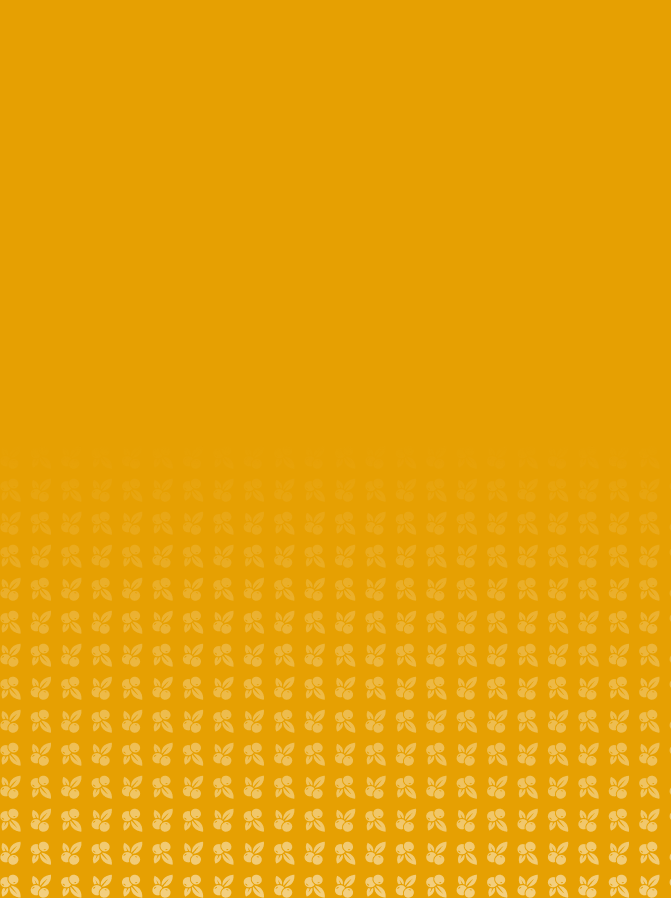
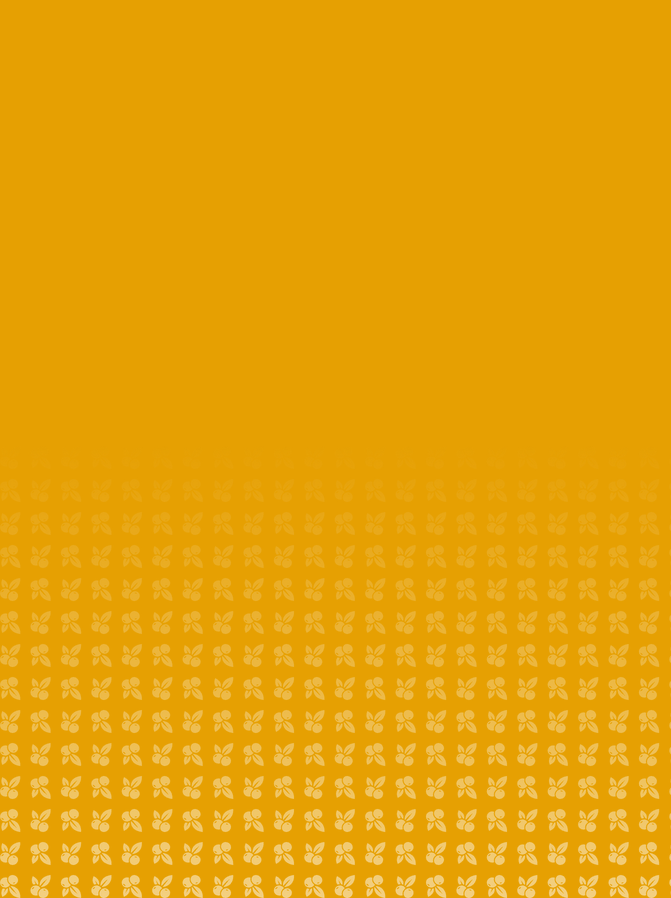
Rebuild the product panels from the Figma redesign (4183:1514)
The carousel now matches the "Products" frame in Figma rather than the old
generic bowls.

Product images: each panel shows its own branded Buenoacai cup photo
(Buenoacai 1–5), pulled from Figma at 1683×2103 and re-canvassed to a shared
950×1450 box — trimmed to the cup, scaled to a common height, centred — so
all five sit identically in one CSS box. They replace bowl-slide.png /
bowl-slide-2.png, which were reused across slides and are now deleted.

Backgrounds: Figma's earthy palette replaces the old vivid one —
gold #e6a002, brown #8c5737, olive #99a75a, brown #8c5737, beige #d0c1b0 —
each composited with the gold berry-vector texture in the bottom 452px
(rendered from the artboard's own vector, which fades across that band) and
cropped to 671px = 11×61 so repeat-x stays seamless on panels wider than the
720px artboard.

The cup is placed per Figma: centred, vertical midpoint at 58.96%, 94% of
the panel height, tilted −7.11°, sized by height off its 950:1450 aspect so
it never stretches and capped at 94% width so it can't spill on the
narrowest phones.

Copy is white on every panel, as the 4183 artboard draws it — so the
earlier luminance-based ink flip is gone. Verified: zero horizontal overflow
and no cup spill at 1920/1440/1280/1024/768/430/390/360/320.

diff --git a/src/components/sections/ProductCarousel.tsx b/src/components/sections/ProductCarousel.tsx
@@ -117,15 +117,6 @@ export default function ProductCarousel() {
 
 /* ------------------------------------------------------------------ */
 
-/** sRGB relative luminance of a #rrggbb colour (WCAG). */
-function luminance(hex: string) {
-  const ch = [1, 3, 5].map((i) => {
-    const c = parseInt(hex.slice(i, i + 2), 16) / 255;
-    return c <= 0.04045 ? c / 12.92 : ((c + 0.055) / 1.055) ** 2.4;
-  });
-  return 0.2126 * ch[0] + 0.7152 * ch[1] + 0.0722 * ch[2];
-}
-
 function Slide({
   slide,
   index,
@@ -133,13 +124,6 @@ function Slide({
   slide: (typeof SLIDES)[number];
   index: number;
 }) {
-  /* The artboard only draws the gold and plum panels, both with white copy.
-     Three of the five supplied artworks are much lighter — white on the pale
-     pink (#fec5da) is a 1.3:1 contrast ratio — so the copy flips to ink on any
-     light panel. The threshold sits above gold's 0.42 so the two Figma panels
-     keep their white type exactly as drawn. */
-  const onLight = luminance(slide.color) > 0.55;
-
   return (
     <article
       /* A size container, so everything inside can be keyed to the panel's
@@ -166,13 +150,15 @@ function Slide({
         transformStyle: 'preserve-3d',
       }}
     >
-      {/* Bowl — Figma: pre-rotation box 623.5 × 831.3, centred at 50% / 53.36%.
-          Driven by HEIGHT + the art's own aspect: a half-viewport panel is
-          wider than the 720:898 artboard one, so a width percentage would
-          stretch the cup as the screen widens. */}
+      {/* Cup — Figma 4183: the branded Buenoacai photo, box centred on the
+          panel with its vertical midpoint at 58.96% (Figma 50% + 80.5px of
+          898), height 94% of the panel, tilted -7.11deg. Sized by HEIGHT with
+          the cup's own 950:1450 aspect so it never stretches as the panel
+          widens; capped at 94% width so it cannot spill on the narrowest
+          phones. */}
       <div
         data-slide-art
-        className="pointer-events-none absolute left-1/2 top-[53.36%] h-[92.58%] w-[86.6%] -translate-x-1/2 -translate-y-1/2 lg:aspect-[623.5/831.3] lg:w-auto"
+        className="pointer-events-none absolute left-1/2 top-[58.96%] h-[94%] w-auto max-w-[94%] -translate-x-1/2 -translate-y-1/2 aspect-[950/1450]"
         style={{ transformStyle: 'preserve-3d' }}
       >
         <Image
@@ -180,12 +166,12 @@ function Slide({
           alt={slide.title}
           fill
           sizes="(max-width:1024px) 86vw, 46vw"
-          className="rotate-[-3.11deg] object-contain transition-transform duration-700 ease-[cubic-bezier(.16,1,.3,1)] group-hover:scale-[1.04]"
+          className="rotate-[-7.11deg] object-contain drop-shadow-[10px_18px_28px_rgba(0,0,0,0.28)] transition-transform duration-700 ease-[cubic-bezier(.16,1,.3,1)] group-hover:scale-[1.04]"
         />
       </div>
 
       {/* Copy — Figma: inset 22px, 608 wide, 16px eyebrow, 48px title */}
-      <div className={`absolute left-[max(1rem,2.45cqh)] top-[max(1rem,2.45cqh)] z-10 flex w-[min(86%,67.71cqh)] flex-col gap-[max(0.4rem,0.9cqh)] ${onLight ? 'text-ink' : 'text-white'}`}>
+      <div className="absolute left-[max(1rem,2.45cqh)] top-[max(1rem,2.45cqh)] z-10 flex w-[min(86%,67.71cqh)] flex-col gap-[max(0.4rem,0.9cqh)] text-white">
         <p className="text-[clamp(0.8125rem,1.782cqh,1.25rem)] font-bold uppercase tracking-[-0.5px]">
           {slide.eyebrow}
         </p>
@@ -226,7 +212,7 @@ function Slide({
       {/* index marker */}
       <span
         aria-hidden
-        className={`font-menu absolute bottom-[max(1.1rem,2.7cqh)] right-[max(1.1rem,2.9cqh)] z-10 text-[clamp(0.75rem,2cqh,1.4rem)] ${onLight ? 'text-ink/60' : 'text-white/60'}`}
+        className="font-menu absolute bottom-[max(1.1rem,2.7cqh)] right-[max(1.1rem,2.9cqh)] z-10 text-[clamp(0.75rem,2cqh,1.4rem)] text-white/60"
       >
         0{index + 1} / 0{SLIDES.length}
       </span>

diff --git a/src/data/site.ts b/src/data/site.ts
@@ -21,11 +21,13 @@ export const MARQUEE_WORDS = [
 ];
 
 /** Horizontal product carousel — 5 full-bleed slides (Figma: Products).
- *  `bg` is the panel artwork exported from Figma at 720 × 898: the flat colour
- *  with the berry texture already fading in from the halfway mark. Cropped to
- *  671px (11 × the texture's 61px period) so it repeats horizontally without a
- *  seam on panels wider than the artboard. `color` backs it so no sub-pixel
- *  gap can show through. */
+ *  Backgrounds and cups both come from the Figma "Products" frame (4183:1514):
+ *  each panel is a flat colour with the gold berry-vector texture composited
+ *  into the bottom half, cropped to 671px (11 × the texture's 61px period) so
+ *  it repeats horizontally without a seam on panels wider than the 720px
+ *  artboard. `color` backs the image so no sub-pixel gap can show through.
+ *  `image` is the panel's own branded cup photo (Buenoacai 1–5), trimmed and
+ *  re-canvassed to a shared 950 × 1450 box so all five sit identically. */
 export const SLIDES = [
   {
     eyebrow: 'Erdbeere, Mango & Beeren',
@@ -33,41 +35,41 @@ export const SLIDES = [
     body: 'nahrhafte & köstliche Smoothies, die sich mühelos in deinen Alltag einfügen',
     color: '#e6a002',
     bg: '/img/panel/panel-1.png',
-    image: '/img/bowl-slide.png',
+    image: '/img/panel/cup-1.png',
   },
   {
     eyebrow: 'Açaí, Banane & Granola',
     title: 'Klassische Açaí Bowl',
     body: 'nahrhafte & köstliche Smoothies, die sich mühelos in deinen Alltag einfügen',
-    color: '#4d294e',
+    color: '#8c5737',
     bg: '/img/panel/panel-2.png',
-    image: '/img/bowl-slide-2.png',
+    image: '/img/panel/cup-2.png',
   },
   {
     eyebrow: 'Heidelbeere, Brombeere & Chia',
     title: 'Beeren-Traum Bowl',
     body: 'nahrhafte & köstliche Smoothies, die sich mühelos in deinen Alltag einfügen',
-    color: '#008000',
+    color: '#99a75a',
     bg: '/img/panel/panel-3.png',
-    image: '/img/bowl-slide.png',
+    image: '/img/panel/cup-3.png',
   },
   {
     eyebrow: 'Kakao, Mandel & Kokos',
     title: 'Kakao-Crunch Bowl',
     body: 'nahrhafte & köstliche Smoothies, die sich mühelos in deinen Alltag einfügen',
-    color: '#fec5da',
+    color: '#8c5737',
     bg: '/img/panel/panel-4.png',
-    image: '/img/bowl-slide-2.png',
+    image: '/img/panel/cup-4.png',
   },
   {
     eyebrow: 'Erdnussbutter, Banane & Hafer',
     title: 'Erdnussbutter Bowl',
     body: 'nahrhafte & köstliche Smoothies, die sich mühelos in deinen Alltag einfügen',
-    color: '#ed0018',
+    color: '#d0c1b0',
     bg: '/img/panel/panel-5.png',
-    image: '/img/bowl-slide.png',
+    image: '/img/panel/cup-5.png',
   },
-];
+]
 
 /** Signature bowls grid — 3 × 2 (Figma: Frame 44) */
 export const BOWLS = [
